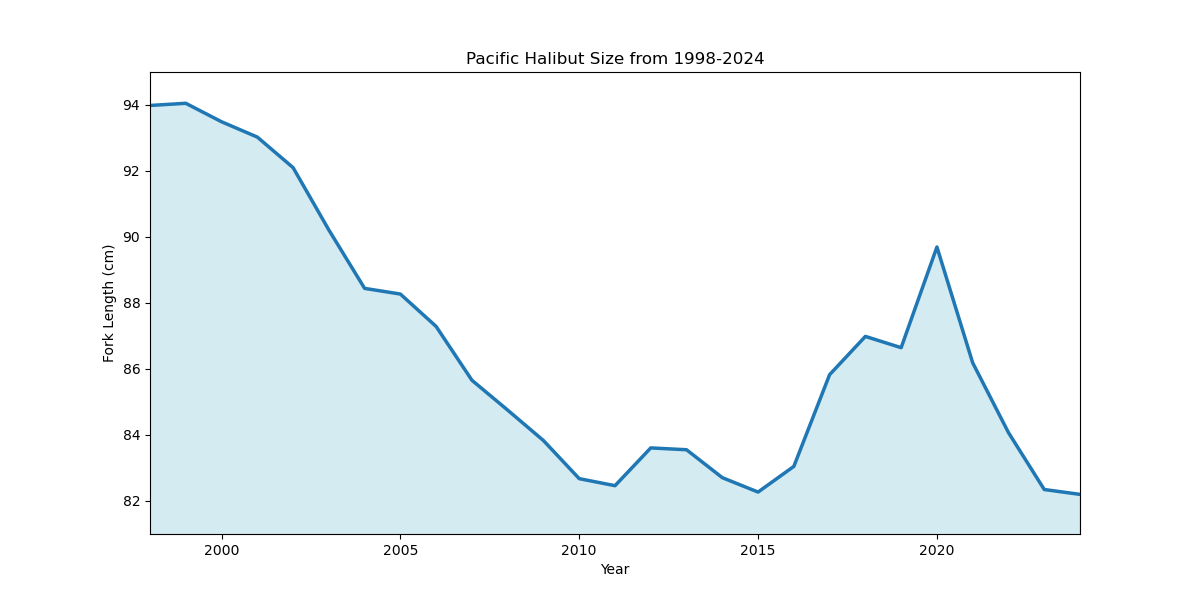
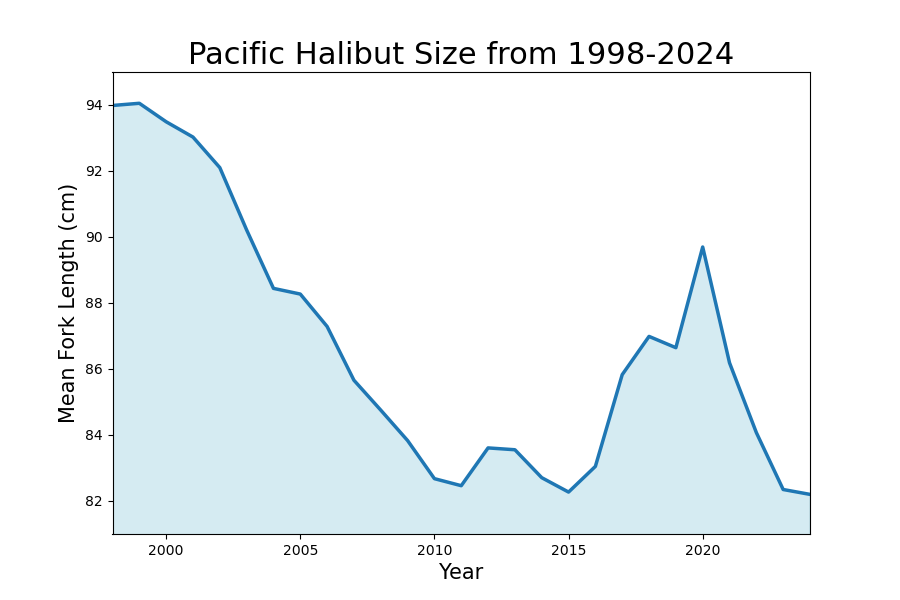
Touching up Graph size

diff --git a/EDS_Group_Project.py b/EDS_Group_Project.py
@@ -17,17 +17,17 @@ annual_mean = df.groupby('Year')['Fork length (cm)'].mean()
 #Creating an array of zeros in order to use the fill-between function in the graph.
 y1 = np.zeros(27)
 np.shape(y1)
-print(annual_mean)
+#print(annual_mean)
 x_var = np.arange(1998,2025)
 #print(df)
 
 #Creating the plot of the data.
-fig, ax = plt.subplots(figsize=(12,6))
+fig, ax = plt.subplots(figsize=(9,6))
 ax.plot(annual_mean, linewidth = 2.5,)
 plt.rcParams['font.family'] = 'serif'
-ax.set_xlabel('Year')
-ax.set_ylabel('Fork Length (cm)')
-ax.set_title('Pacific Halibut Size from 1998-2024')
+ax.set_xlabel('Year', fontsize=15)
+ax.set_ylabel('Mean Fork Length (cm)', fontsize=15)
+ax.set_title('Pacific Halibut Size from 1998-2024', fontsize=22)
 ax.fill_between(x_var,annual_mean, y1, color='lightblue', alpha=0.5)
 plt.xlim(1998,2024)
 plt.ylim(81,95)
